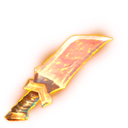
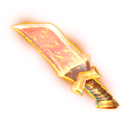
no message

diff --git a/core/src/Screen/FightScreen.java b/core/src/Screen/FightScreen.java
@@ -31,11 +31,15 @@ public class FightScreen extends BaseScreen {
     private static final float FONT_SCALE_HP = 2;
     private static final float FONT_SCALE_PROCENT = 1.7f;
 
+    private static final int[] DURATION_ANIMATION = new int[]{1, 4, 7, 10, 13, 16};
+
     private static Hero hero;
     private static Enemy enemy;
 
     private static Image heroImage;
     private static Image enemyImage;
+    private static Image waponHero;
+    private static Image waponEnemy;
 
     private static Image backgroundFight;
     private static ImageButton[] plusButton;
@@ -128,6 +132,8 @@ public class FightScreen extends BaseScreen {
         }else
             enemyImage = new Image(enemy.getTexture());
 
+        waponEnemy = enemy.getWapon();
+
         heroImage.setBounds(10, 180, BaseScreen.VIEW_WIDTH /2 - 20, 200);
         enemyImage.setBounds(BaseScreen.VIEW_WIDTH /2 + 10, 180, BaseScreen.VIEW_WIDTH /2 -20, 200);
         enemy.getHead().setPosition(270, 435);
@@ -204,7 +210,7 @@ public class FightScreen extends BaseScreen {
                             Action action = Actions.run(new Runnable() {
                                 @Override
                                 public void run() {
-                                    startFight.remove();
+                                    startFight.setPosition(0, -50);
 
                                     Label label = new Label("-10% HP", styleBlood);
                                     label.setPosition(buttonAbort.getX() + buttonAbort.getWidth() / 2 - label.getWidth() / 2 - 25, buttonAbort.getY() + 50);
@@ -225,7 +231,7 @@ public class FightScreen extends BaseScreen {
                                     Action action1 = Actions.run(new Runnable() {
                                         @Override
                                         public void run() {
-                                            updateRound(false);
+                                            updateRound();
                                         }
                                     });
 
@@ -271,7 +277,7 @@ public class FightScreen extends BaseScreen {
             public boolean touchDown(InputEvent event, float x, float y, int pointer, int button) {
                 System.out.println("Start");
                 startFight.remove();
-                updateRound(true);
+                updateRound();
                 abort = false;
                 if(buttonAbort != null)
                     buttonAbort.remove();
@@ -314,7 +320,7 @@ public class FightScreen extends BaseScreen {
         barEnergyEnemy.setSize(energyEnemy / energyMaxEnemy *-120, barEnergyEnemy.getHeight());
     }
 
-    private void updateRound(boolean showButton) {
+    private void updateRound() {
         enemyAiStats = updateEnemyAi();
 
         //Hero attack physics
@@ -333,32 +339,58 @@ public class FightScreen extends BaseScreen {
         int magicDmgEnemy = calculateMagicDmgEnemy();
         int magicProcentEnemy = calculateMagicPocentEnemy();
 
+        try { //TODO wapon not init ever round
+            waponHero = flipY();
+            if(waponHero != null) {
+                waponHero.setPosition(150, 220);
+                waponHero.setSize(75, 75);
+                waponHero.addAction(Actions.fadeOut(0));
+                stage.addActor(waponHero);
+            }
+
+            waponEnemy.setPosition(200, 220);
+            waponEnemy.setSize(75, 75);
+            waponEnemy.addAction(Actions.fadeOut(0));
+            stage.addActor(waponEnemy);
+
         int[] randomHit = randomQueueHit();
 
         for(int i = 0; i < 6; i++){
+            int duration = DURATION_ANIMATION[i];
+            System.out.println(duration);
             switch (randomHit[i]){
-                case 0:
-                    firstAttack(randomHit(physicsDmgEnemy, physicsProcentEnemy), physicsProcentEnemy);
-                    break;
                 case 1:
-                    secondAttack(randomHit(physicsDmgEnemy, physicsProcentEnemy), physicsProcentEnemy);
+                    firstAttack(randomHit(physicsDmgEnemy, physicsProcentEnemy), physicsProcentEnemy, duration);
                     break;
                 case 2:
-                    thirdAttack(randomHit(physicsDmgHero, physicsProcentHero), physicsProcentHero);
+                    secondAttack(randomHit(physicsDmgEnemy, physicsProcentEnemy), physicsProcentEnemy, duration);
                     break;
                 case 3:
-                    fourthAttack(randomHit(physicsDmgHero, physicsProcentHero), physicsProcentHero);
+                        thirdAttack(randomHit(physicsDmgHero, physicsProcentHero), physicsProcentHero, duration);
                     break;
                 case 4:
-                    fiveAttack(randomHit(magicDmgEnemy, magicProcentEnemy), magicProcentEnemy);
+                    fourthAttack(randomHit(physicsDmgHero, physicsProcentHero), physicsProcentHero, duration);
                     break;
                 case 5:
-                    sixAttack(randomHit(magicDmgHero, magicProcentHero), magicProcentHero, showButton);
+                    fiveAttack(randomHit(magicDmgEnemy, magicProcentEnemy), magicProcentEnemy, duration);
+                    break;
+                case 6:
+                    sixAttack(randomHit(magicDmgHero, magicProcentHero), magicProcentHero, duration);
                     break;
                 default:
                     break;
             }
+            if(i == 5){
+                Action action = Actions.run(new Runnable() {
+                    @Override
+                    public void run() {
+                        stage.addActor(startFight);
+                    }
+                });
+                stage.addAction(Actions.sequence(Actions.delay(18), action));
+            }
         }
+        } catch (CloneNotSupportedException e){}
     }
 
     private int[] randomQueueHit() {
@@ -411,7 +443,7 @@ public class FightScreen extends BaseScreen {
             return dmg;
     }
 
-    private void sixAttack(final int dmg, int procent, final boolean showButton) {
+    private void sixAttack(final int dmg, int procent, int duration) {
         Label hpMagEnemyFirst = new Label("-" + dmg, styleBlood);
         Label procentMagEnemyFirst = new Label(procent + "%", style);
         hpMagEnemyFirst.setFontScale(FONT_SCALE_HP);
@@ -426,17 +458,14 @@ public class FightScreen extends BaseScreen {
                 lHpEnemy.setText(hpEnemy + " / " + hpMaxEnemy);
                 checkKill();
 
-                if(showButton)
-                    stage.addActor(startFight);
-
                 labelRoundNumber.setText(String.valueOf(Integer.parseInt(labelRoundNumber.getText().toString()) +1));
                 abortNonActive.remove();
             }
         });
-        animate(hpMagEnemyFirst, procentMagEnemyFirst, 15, action);
+        animate(hpMagEnemyFirst, procentMagEnemyFirst, duration, action, true);
     }
 
-    private void fiveAttack(final int dmg, int procent) {
+    private void fiveAttack(final int dmg, int procent, int duration) {
         Label hpMagHeroFirst = new Label("-" + dmg, styleBlood);
         Label procentMagHeroFirst = new Label(procent + "%", style);
         hpMagHeroFirst.setFontScale(FONT_SCALE_HP);
@@ -452,10 +481,10 @@ public class FightScreen extends BaseScreen {
                 checkKill();
             }
         });
-        animate(hpMagHeroFirst, procentMagHeroFirst, 12, action);
+        animate(hpMagHeroFirst, procentMagHeroFirst, duration, action, false);
     }
 
-    private void fourthAttack(final int dmg, int procent) {
+    private void fourthAttack(final int dmg, int procent, int duration) {
         Label hpPhyEnemySecond = new Label("-" + dmg, styleBlood);
         Label procentPhyEnemySecond = new Label(procent + "%", style);
         hpPhyEnemySecond.setFontScale(FONT_SCALE_HP);
@@ -471,10 +500,10 @@ public class FightScreen extends BaseScreen {
                 checkKill();
             }
         });
-        animate(hpPhyEnemySecond, procentPhyEnemySecond, 9, action);
+        animate(hpPhyEnemySecond, procentPhyEnemySecond, duration, action, true);
     }
 
-    private void thirdAttack(final int dmg, int procent) {
+    private void thirdAttack(final int dmg, int procent, int duration) throws CloneNotSupportedException {
         Label hpPhyEnemyFirst = new Label("-" + dmg, styleBlood);
         Label procentPhyEnemyFirst = new Label(procent + "%", style);
         hpPhyEnemyFirst.setFontScale(FONT_SCALE_HP);
@@ -490,10 +519,10 @@ public class FightScreen extends BaseScreen {
                 checkKill();
             }
         });
-        animate(hpPhyEnemyFirst, procentPhyEnemyFirst, 6, action);
+        animate(hpPhyEnemyFirst, procentPhyEnemyFirst, duration, action, true);
     }
 
-    private void secondAttack(final int dmg, int procent) {
+    private void secondAttack(final int dmg, int procent, int duration) {
         Label hpPhyHeroSecond = new Label("-" + dmg, styleBlood);
         Label procentPhyHeroSecond = new Label(procent + "%", style);
         hpPhyHeroSecond.setFontScale(FONT_SCALE_HP);
@@ -509,11 +538,11 @@ public class FightScreen extends BaseScreen {
                 checkKill();
             }
         });
-        animate(hpPhyHeroSecond, procentPhyHeroSecond, 3, action);
+        animate(hpPhyHeroSecond, procentPhyHeroSecond, duration, action, false);
 
     }
 
-    private void firstAttack(final int dmg, int procent) {
+    private void firstAttack(final int dmg, int procent, int duration) {
         Label hpPhyHeroFirst = new Label("-" + dmg, styleBlood);
         Label procentPhyHeroFirst = new Label(procent + "%", style);
         hpPhyHeroFirst.setFontScale(FONT_SCALE_HP);
@@ -529,26 +558,42 @@ public class FightScreen extends BaseScreen {
                 checkKill();
             }
         });
-        animate(hpPhyHeroFirst, procentPhyHeroFirst, 0, action);
+        animate(hpPhyHeroFirst, procentPhyHeroFirst, duration, action, false);
+    }
+
+    private Image flipY() throws CloneNotSupportedException {
+        if(Equipment.getTextureWapon() != null) {
+            final TextureRegion texture = new TextureRegion(Equipment.getTextureWapon());
+            texture.flip(true, false);
+            Image image = new Image(texture);
+
+            return image;
+        }
+        return null;//TODO image hit hand
     }
 
     private void checkKill(){
         if(hpHero < 1){
             hpHero = 0;
-            //TODO wait
             game.setScreen(new HeroDead(game));
         }
-
         if(hpEnemy < 1){
             hpEnemy = 0;
-            //TODO wait
             game.setScreen(new FightStats(game));
         }
     }
 
-    private void animate(Label dmg, Label procent, int delay, Action action) {
-        dmg.addAction(Actions.sequence(Actions.fadeOut(0), Actions.delay(delay + 0.5f), Actions.fadeIn(0),  Actions.moveBy(0, 20, 2), Actions.parallel(Actions.fadeOut(0.8f), Actions.moveBy(0, 10, 1))));
-        procent.addAction(Actions.sequence(Actions.fadeOut(0), Actions.delay(delay), Actions.fadeIn(0), Actions.delay(0.1f), Actions.moveBy(0, 20, 2), Actions.parallel(Actions.fadeOut(0.4f), Actions.moveBy(0, 10, 1), action)));
+    private void animate(Label dmg, Label procent, int delay, Action action, boolean isHero) {
+        if(isHero) {
+            dmg.addAction(Actions.sequence(Actions.fadeOut(0), Actions.delay(delay + 0.5f), Actions.fadeIn(0), Actions.moveBy(0, 20, 2), Actions.parallel(Actions.fadeOut(0.8f), Actions.moveBy(0, 10, 1))));
+            procent.addAction(Actions.sequence(Actions.fadeOut(0), Actions.delay(delay), Actions.fadeIn(0), Actions.delay(0.1f), Actions.moveBy(0, 20, 2), Actions.parallel(Actions.fadeOut(0.4f), Actions.moveBy(0, 10, 1), action)));
+           if(waponHero != null)
+                waponHero.addAction(Actions.sequence(Actions.delay(delay), Actions.fadeIn(1), Actions.fadeOut(1)));//TODO rework
+        }else{
+            dmg.addAction(Actions.sequence(Actions.fadeOut(0), Actions.delay(delay + 0.5f), Actions.fadeIn(0), Actions.moveBy(0, 20, 2), Actions.parallel(Actions.fadeOut(0.8f), Actions.moveBy(0, 10, 1))));
+            procent.addAction(Actions.sequence(Actions.fadeOut(0), Actions.delay(delay), Actions.fadeIn(0), Actions.delay(0.1f), Actions.moveBy(0, 20, 2), Actions.parallel(Actions.fadeOut(0.4f), Actions.moveBy(0, 10, 1), action)));
+            waponEnemy.addAction(Actions.sequence(Actions.delay(delay), Actions.fadeIn(1), Actions.fadeOut(1)));//TODO rework
+        }
     }
 
     private int calculateMagicPocentEnemy() {

diff --git a/core/src/com/mygdx/game/Item.java b/core/src/com/mygdx/game/Item.java
@@ -22,6 +22,8 @@ public class Item implements Cloneable{
     private ItemType itemType;
     private Stan stan;
 
+    private Texture texture;
+
     private String itemKey;
     private String itemName;
     private String pathImage;
@@ -36,7 +38,8 @@ public class Item implements Cloneable{
 
     public Item(String  pathImage, ItemType itemType){
         this.pathImage = pathImage;
-        this.image = new Image(new Texture(Gdx.files.internal(pathImage)));
+        this.texture = new Texture(Gdx.files.internal(pathImage));
+        this.image = new Image(texture);
         this.itemType = itemType;
         image.setSize(BLOCK_SIZE, BLOCK_SIZE);
     }
@@ -44,7 +47,8 @@ public class Item implements Cloneable{
     public Item(String itemKey, String pathImage, String itemName, ItemType itemType, int hp, int strong, int wiedza, int armor, int defenseFiz, int defenseMag, int cashValue) {
         this.itemKey = itemKey;
         this.pathImage = pathImage;
-        this.image = new Image(new Texture(Gdx.files.internal(pathImage)));
+        this.texture = new Texture(Gdx.files.internal(pathImage));
+        this.image = new Image(texture);
         this.itemName = itemName;
         this.itemType = itemType;
         image.setSize(BLOCK_SIZE, BLOCK_SIZE);
@@ -122,5 +126,9 @@ public class Item implements Cloneable{
 
     public Stan getStan() {
         return stan;
+    }
+
+    public Texture getTexture() {
+        return texture;
     }
 }

diff --git a/core/src/Screen/Map_01.java b/core/src/Screen/Map_01.java
@@ -29,7 +29,7 @@ public class Map_01 extends BaseMap {
     public void generateMap() {
         bgTexture.setSize(MAP_WIDTH, MAP_HEIGHT);
         stage.addActor(bgTexture);
-        addEnemy("glomin.png", "glominHead.png");
+        addEnemy("glomin.png", "glominHead.png", "glominWapon.png");
 
         objectCollision = new ArrayList<Polygon>();
         verticalCollision = new ArrayList<Vector2[]>();
@@ -49,8 +49,9 @@ public class Map_01 extends BaseMap {
         verticalCollision.add(point);
     }
 
-    private void addEnemy(String path, String head){
-        Enemy enemy = new Enemy(new Texture(Gdx.files.internal(path)), stage, new Image(new Texture(Gdx.files.internal(head))), "Goltral", 5, 180, 8, 8, 16, 10, 8, 10, 30, 45, 60, 75, game);
+    private void addEnemy(String path, String head, String wapon){
+        Enemy enemy = new Enemy(new Texture(Gdx.files.internal(path)), stage, new Image(new Texture(Gdx.files.internal(head))),
+                new Image(new Texture(Gdx.files.internal(wapon))),  "Goltral", 5, 180, 8, 8, 16, 10, 8, 10, 30, 45, 60, 75, game);
         //TODO if not equals null add item drop;     enemy.setDropItemName();
         enemyList.add(enemy);
         stage.addActor(enemyList.get(0));

diff --git a/core/src/Screen/Map_02.java b/core/src/Screen/Map_02.java
@@ -29,7 +29,7 @@ public class Map_02 extends BaseMap {
     public void generateMap() {
         bgTexture.setSize(MAP_WIDTH, MAP_HEIGHT);
         stage.addActor(bgTexture);
-        addEnemy("glomin.png", "glominHead.png");
+        addEnemy("glomin.png", "glominHead.png", "glominWapon.png");
 
         objectCollision = new ArrayList<Polygon>();
         verticalCollision = new ArrayList<Vector2[]>();
@@ -49,8 +49,9 @@ public class Map_02 extends BaseMap {
         verticalCollision.add(point);
     }
 
-    private void addEnemy(String path, String head){
-        Enemy enemy = new Enemy(new Texture(Gdx.files.internal(path)), stage, new Image(new Texture(Gdx.files.internal(head))), "Goltral", 5, 180, 8, 8, 16, 10, 8, 10, 30, 45, 60, 75, game);
+    private void addEnemy(String path, String head, String wapon){
+        Enemy enemy = new Enemy(new Texture(Gdx.files.internal(path)), stage, new Image(new Texture(Gdx.files.internal(head))),
+                new Image(new Texture(Gdx.files.internal(wapon))),  "Goltral", 5, 180, 8, 8, 16, 10, 8, 10, 30, 45, 60, 75, game);
         //TODO if not equals null add item drop;     enemy.setDropItemName();
         enemyList.add(enemy);
         stage.addActor(enemyList.get(0));

diff --git a/core/src/com/mygdx/game/Enemy.java b/core/src/com/mygdx/game/Enemy.java
@@ -42,6 +42,7 @@ public class Enemy extends Character {
     private float defaultScreenZeroY;
 
     private Image head;
+    private Image wapon;
     private String name;
     private int level;
     private int hp;
@@ -56,10 +57,11 @@ public class Enemy extends Character {
     private Vector2 expToKill;
     private Vector2 moneyToKill;
 
-    public Enemy(Texture texture, Stage stage, Image head, String name, int level, int hp, int strong, int wiedza, int armor, int defensePhysics, int defenseMagic,
+    public Enemy(Texture texture, Stage stage, Image head, Image wapon, String name, int level, int hp, int strong, int wiedza, int armor, int defensePhysics, int defenseMagic,
                  int randomDrop, int expToKillMin, int expToKillMax, int moneyToKillMin, int moneyToKillMax, Game game) {
         super(texture);
         this.head = head;
+        this.wapon = wapon;
         this.name = name;
         this.stage = stage;
         this.level = level;
@@ -232,5 +234,9 @@ public class Enemy extends Character {
 
     private static void setActiveMove(boolean block){
         activeMoveScreen = block;
+    }
+
+    public Image getWapon(){
+        return wapon;
     }
 }

diff --git a/core/src/com/mygdx/game/Equipment.java b/core/src/com/mygdx/game/Equipment.java
@@ -912,6 +912,13 @@ public class Equipment {
         blockClick = click;
     }
 
+    public static Texture getTextureWapon() throws CloneNotSupportedException {
+        if(pref.getString("WAPON", "").equals(""))
+            return null;
+
+        return LoadAllItemToGame.getItem(pref.getString("WAPON", "")).getTexture();
+    }
+
     public static boolean getBlockClick(){
         return blockClick;
     }
